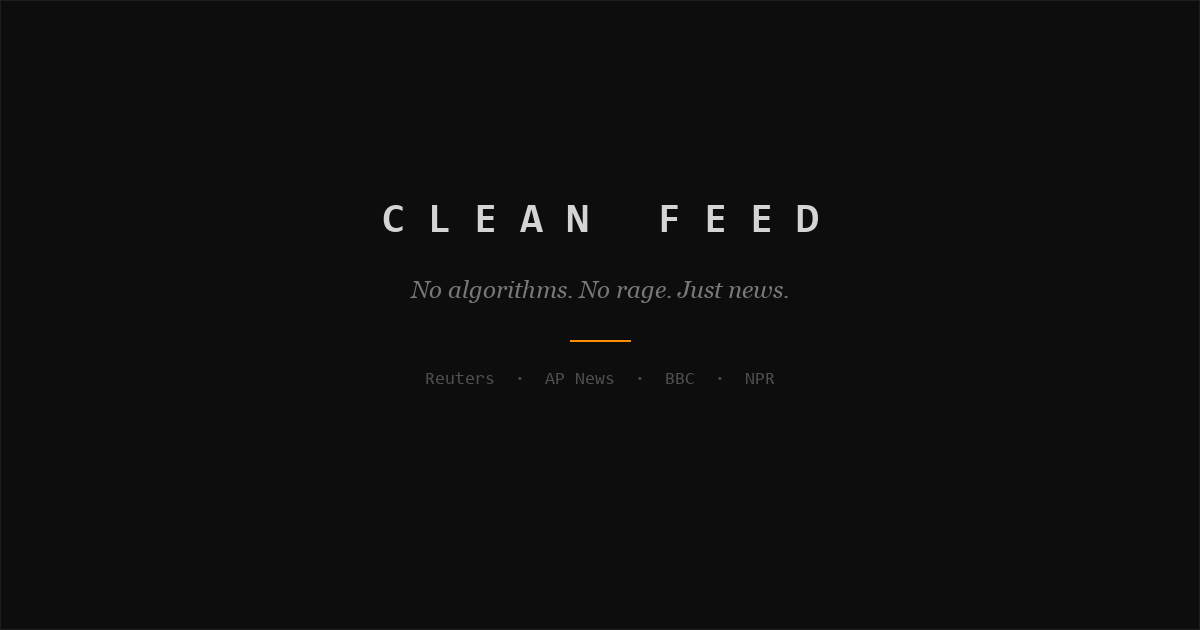
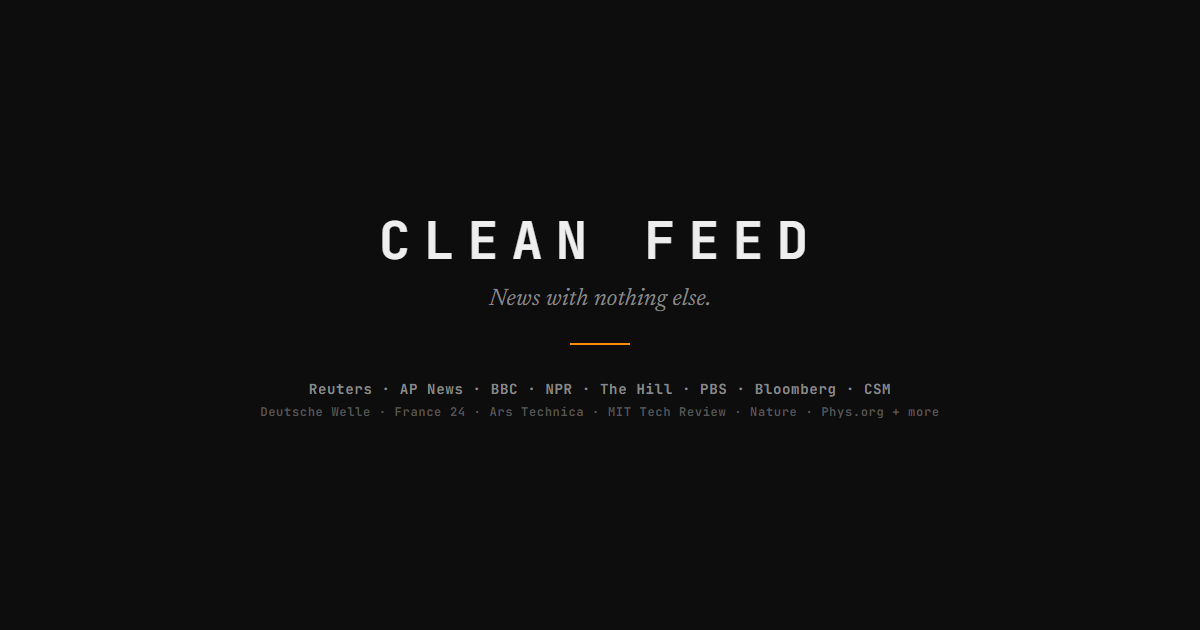
Move live counter top-left, update OG share card
- Live counter moved from top-right to top-left (less crowded on mobile)
- Dropdown pops down-right to stay on screen
- New OG image: updated tagline "News with nothing else.", all 23 sources
  listed, orange accent. Replaces old card that only showed 4 sources.
- Social previews (Twitter/X, iMessage, Slack, etc.) will show new card
  after platform caches refresh

diff --git a/src/components/Header.jsx b/src/components/Header.jsx
@@ -83,12 +83,16 @@ export function Header({ lastUpdated, refreshing, onRefresh, mode, onToggleTheme
         borderBottom: `1px solid ${theme.colors.border}`,
       }}
     >
+      {/* Live counter — fixed top-left */}
+      <div style={{ position: "fixed", top: 8, left: 12, zIndex: 50 }}>
+        <LiveCounter />
+      </div>
+
       {/* Utility buttons — fixed top-right corner */}
       <div style={{
         position: "fixed", top: 8, right: 12, zIndex: 50,
         display: "flex", gap: 3, alignItems: "center",
       }}>
-        <LiveCounter />
         {[
           { label: "?", onClick: onAbout, title: "About" },
           { label: "\u2261", onClick: () => window.open("/api/reader", "_blank"), title: "Reader mode" },

diff --git a/src/components/LiveCounter.jsx b/src/components/LiveCounter.jsx
@@ -58,7 +58,7 @@ export function LiveCounter() {
 
       {open && (
         <div style={{
-          position: "absolute", top: "calc(100% + 6px)", right: 0,
+          position: "absolute", top: "calc(100% + 6px)", left: 0,
           background: theme.colors.surface,
           border: `1px solid ${theme.colors.border}`,
           borderRadius: theme.radii.md,
